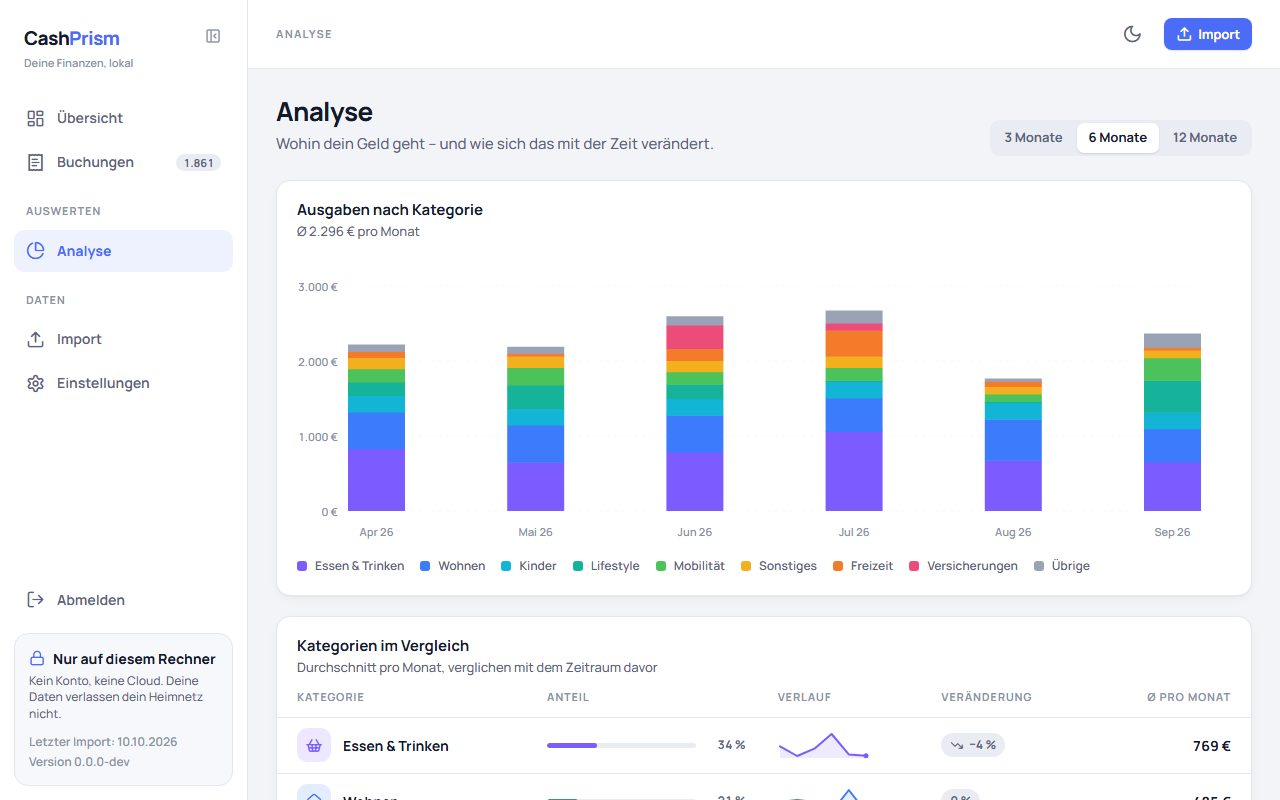
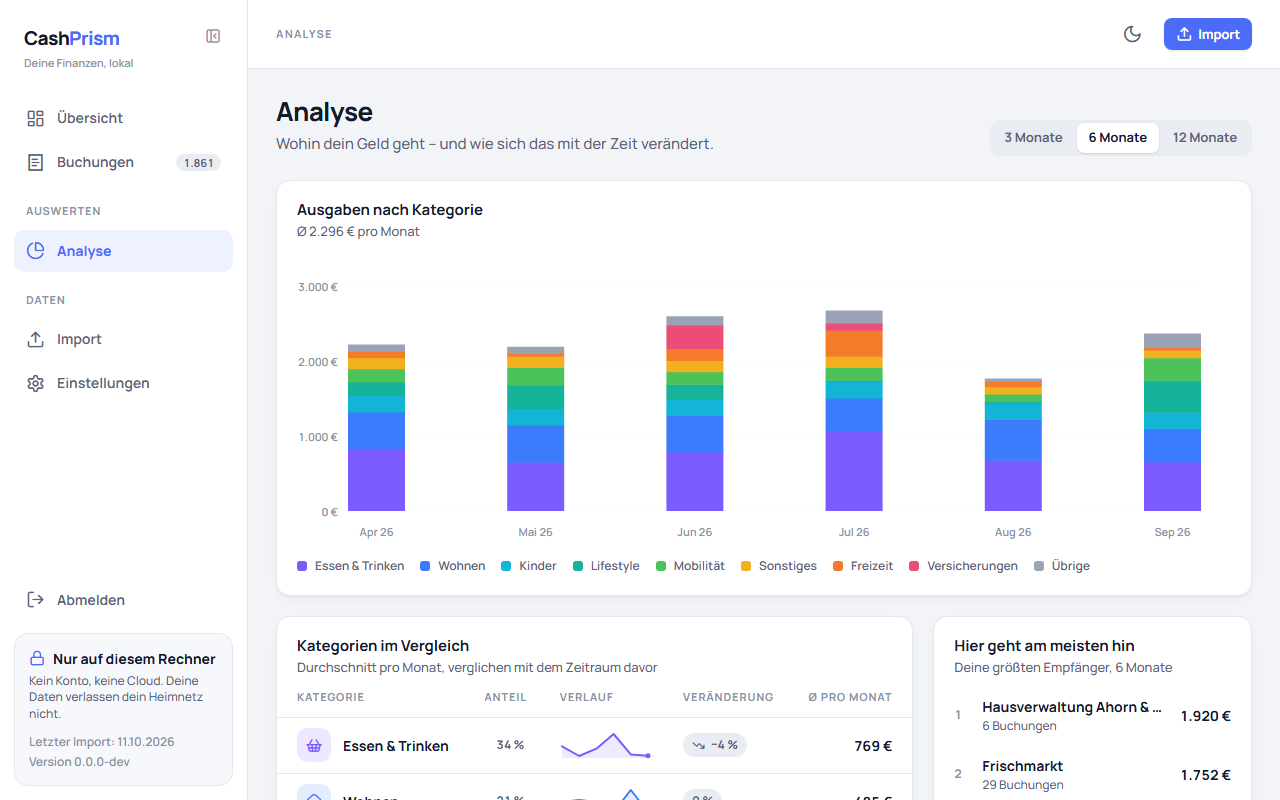
docs: describe spending per counterparty (#138)
- Describe the counterparty card in the user guide
- Retake the analysis screenshot and add the card's
- Add a changelog entry

diff --git a/docs/benutzung.md b/docs/benutzung.md
@@ -242,7 +242,7 @@ Symbolen ein und wieder auf.
 |---|---|---|
 | Übersicht | `/` | Einnahmen, Ausgaben und wofür das Geld ging — siehe [Die Übersicht](#die-übersicht) |
 | Buchungen | `/bookings` | Alle gespeicherten Buchungen als Liste |
-| Analyse | `/analysis` | Ausgaben nach Kategorie über mehrere Monate verglichen — siehe [Die Analyse](#die-analyse) |
+| Analyse | `/analysis` | Ausgaben nach Kategorie über mehrere Monate verglichen, dazu nach Empfänger — siehe [Die Analyse](#die-analyse) |
 | Import | `/import` | Einen Finanzguru-Export einlesen, darunter die bisherigen Importe |
 | Einstellungen | `/settings` | Alle gespeicherten Daten löschen, sehen, unter welcher Adresse CashPrism erreichbar ist, Passwort ändern |
 
@@ -291,12 +291,12 @@ Buchung vom frei verfügbaren Einkommen ausnimmt, spielt hier keine Rolle.
 
 ## Die Analyse
 
-![Die Analyse über sechs Monate mit gestapelten Balken nach Kategorie und der Tabelle Kategorien im Vergleich](images/benutzung/analyse.png)
+![Die Analyse über sechs Monate mit gestapelten Balken nach Kategorie, darunter die Tabelle Kategorien im Vergleich und daneben Hier geht am meisten hin](images/benutzung/analyse.png)
 
-Die Analyse vergleicht, wofür du über mehrere Monate Geld ausgegeben hast.
-Oben rechts wählst du *3 Monate*, *6 Monate* oder *12 Monate*. Gemeint sind
-immer die letzten vollständigen Monate vor dem Monat, in dem der jüngste
-Export gezogen wurde; der laufende Monat zählt nicht mit, weil er den
+Die Analyse vergleicht, wofür und an wen du über mehrere Monate Geld
+ausgegeben hast. Oben rechts wählst du *3 Monate*, *6 Monate* oder *12 Monate*.
+Gemeint sind immer die letzten vollständigen Monate vor dem Monat, in dem der
+jüngste Export gezogen wurde; der laufende Monat zählt nicht mit, weil er den
 Durchschnitt zu niedrig ausfallen ließe. Gezählt wird wie auf der
 [Übersicht](#die-übersicht): Eine Hauptkategorie, die in einem Monat unterm
 Strich ein Plus hatte, hat in diesem Monat nichts gekostet.
@@ -316,6 +316,25 @@ Strich ein Plus hatte, hat in diesem Monat nichts gekostet.
   die Kategorie im Zeitraum davor nichts gekostet hat. Ist die Tabelle schmal,
   fällt zuerst der Balken beim Anteil weg, dann die Verlaufslinie; die Zahlen
   bleiben.
+- **Hier geht am meisten hin:** Neben der Tabelle, auf einem schmalen
+  Bildschirm darunter, steht, wer im gewählten Zeitraum wie viel Geld bekommen
+  hat, der größte Betrag zuerst, mit der Zahl der Buchungen und der Summe in
+  ganzen Euro. Gezählt werden nur Ausgaben, Buchung für Buchung: Umbuchungen
+  zwischen deinen eigenen Konten zählen nicht, von einer geteilten Buchung
+  zählen die Teile statt der ursprünglichen Buchung, und eine Erstattung wird
+  nicht verrechnet — anders als bei den Kategorien. Der Name steht genau so da,
+  wie Finanzguru ihn exportiert. Schreibt Finanzguru denselben Händler auf zwei
+  Arten, etwa einmal mit und einmal ohne Filialnummer, erscheint er zweimal.
+  Eine Buchung ohne Empfänger fehlt in der Liste. Zu sehen sind zuerst die acht
+  größten; *Alle … anzeigen* zeigt den Rest, *Weniger anzeigen* klappt ihn
+  wieder ein. Ein Klick auf einen Empfänger öffnet die
+  [Buchungsliste](#die-buchungsliste) mit genau diesen Buchungen: dieser
+  Empfänger, dieser Zeitraum, nur Ausgaben, Umbuchungen ausgeblendet. Ihre
+  Summenzeile nennt dieselben Ausgaben auf den Cent. Nur die Zahl der Buchungen
+  kann dort höher liegen, weil die Liste von einer geteilten Buchung auch das
+  Original zeigt.
+
+![Die Karte Hier geht am meisten hin mit Rang, Empfänger, Zahl der Buchungen und Summe](images/benutzung/analyse-empfaenger.png)
 
 Die Farben richten sich nach dem Rang einer Kategorie, nicht nach ihrem Namen.
 Beim Umschalten des Zeitraums behält jede Kategorie ihre Farbe, und eine

diff --git a/docs/releasing.md b/docs/releasing.md
@@ -168,6 +168,7 @@ and show nothing but invented data:
 | `navigation.png` | *Übersicht*, the pointer resting on *Analyse* in the navigation |
 | `uebersicht.png` | *Übersicht*, the pointer on a point of the chart so its tooltip shows |
 | `analyse.png` | *Analyse* with *6 Monate* |
+| `analyse-empfaenger.png` | *Analyse* with *6 Monate*, scrolled down so *Hier geht am meisten hin* fills the page area |
 | `buchungsliste.png` | *Buchungen* with the details of one booking open |
 | `erreichbar.png` | *Einstellungen*, the address under *Erreichbar unter* replaced by `http://192.168.1.7:5080` in the browser's developer tools |
 | `alle-daten-loeschen.png` | *Einstellungen* after *Alle Daten löschen*, showing the question — not confirmed — with the address replaced as above |

diff --git a/CHANGELOG.md b/CHANGELOG.md
@@ -23,6 +23,10 @@ releases and the minor version is bumped for every notable change.
 - The filter, the sort order and the page are part of the address. A reload
   keeps them, the browser's back button returns to the previous filter, and a
   bookmark opens the same selection.
+- The analysis ranks counterparties by what went out to them in the chosen
+  period, each with its sum and number of bookings. A counterparty is listed
+  exactly as Finanzguru names it, and a click opens the booking list on the
+  spending behind that sum.
 
 ## [0.1.0] - 2026-10-10
 
